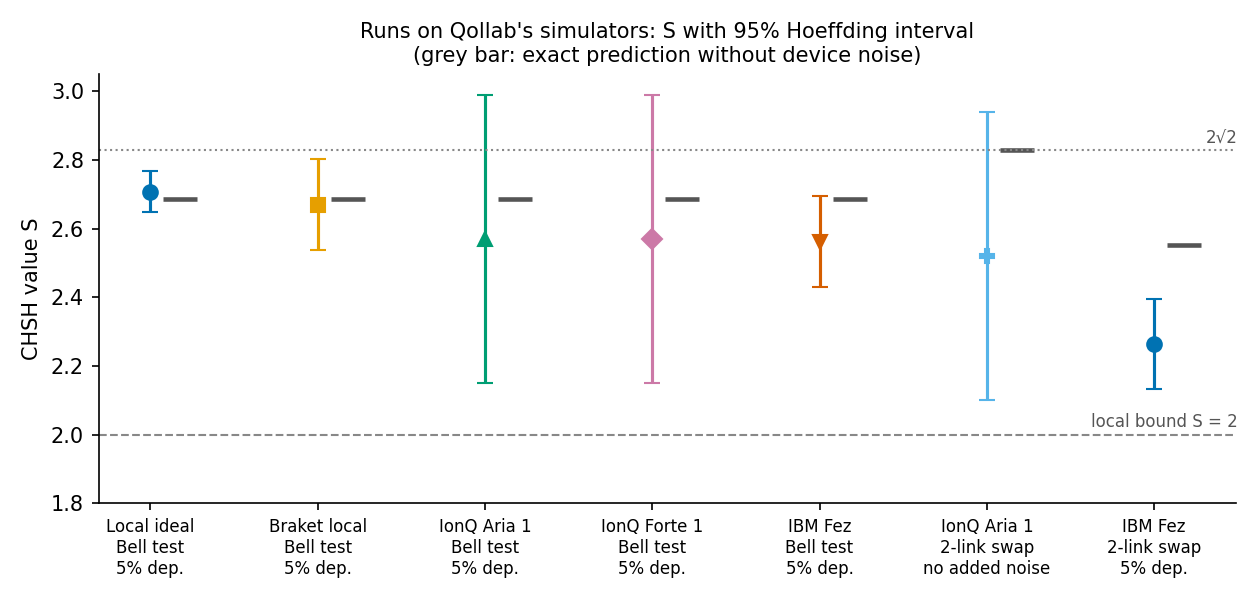
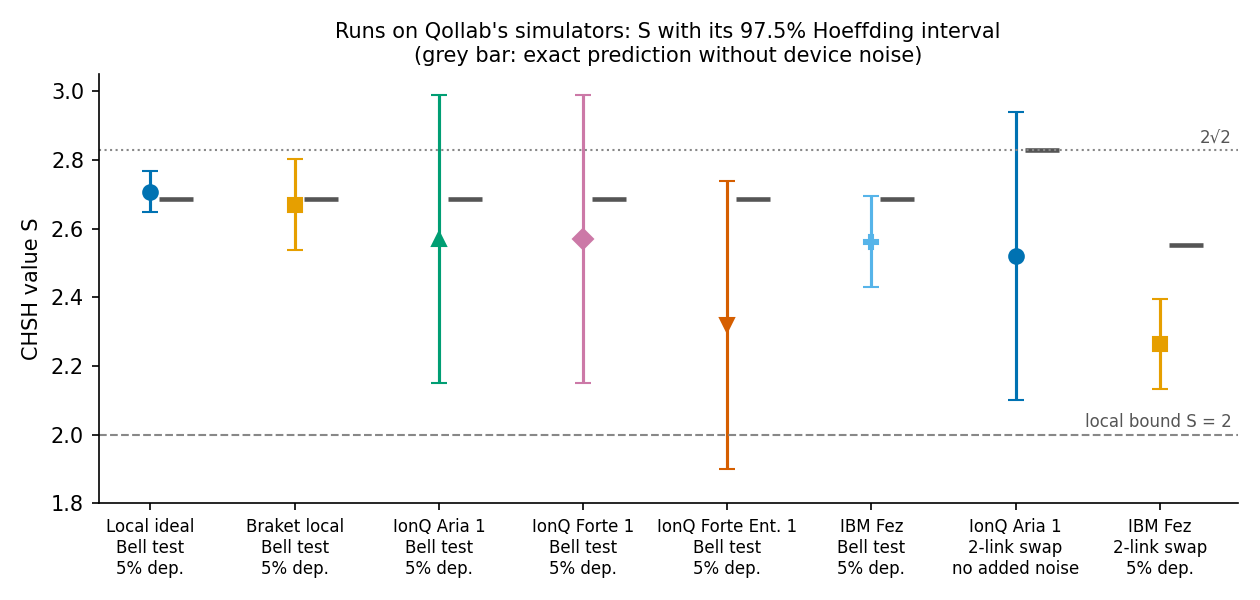
Add an IonQ Forte Enterprise 1 noise-model run; label S intervals as 97.5 %
Bell test, 5 % depolarizing, 200 shots, one packed 25-qubit job on Qollab: S = 2.320
[1.901, 2.739], Q_Z = 10.5 %, so the Bell violation holds only at the point estimate.
README results table, the finite-statistics paragraph and the verified-backends list are
updated; one 200-shot run per model cannot rank the models (S differs from Forte 1 by
about 1.6 combined standard errors). The S interval in the table and figure is the 97.5 %
Hoeffding interval used by the app, so every claim holds at 95 %.

diff --git a/scripts/make_figures.py b/scripts/make_figures.py
@@ -39,6 +39,7 @@ def short_name(label: str) -> str:
         ("BasicSimulator", "Local ideal"),
         ("Braket", "Braket local"),
         ("Aria 1", "IonQ Aria 1"),
+        ("Forte Enterprise 1", "IonQ Forte Ent. 1"),
         ("Forte 1", "IonQ Forte 1"),
         ("Fez", "IBM Fez"),
     ):
@@ -90,7 +91,7 @@ def backends_figure() -> None:
     ax.set_ylabel("CHSH value S")
     ax.set_ylim(1.8, 3.05)
     ax.set_title(
-        "Runs on Qollab's simulators: S with 95% Hoeffding interval\n"
+        "Runs on Qollab's simulators: S with its 97.5% Hoeffding interval\n"
         "(grey bar: exact prediction without device noise)",
         fontsize=10,
     )

diff --git a/README.md b/README.md
@@ -30,10 +30,10 @@ different amount of evidence:
 | DI key (Acín et al. 2007, collective attacks) | nothing; i.i.d. rounds | S > 2.424, QBER < 7.15 % |
 
 The lab makes this ladder visible. Every run shows each certificate twice: at the **point
-estimate**, and at the **conservative end** of a 95 % confidence interval (S at its lower end,
-error rates at their upper ends). With 10,000 shots per setting most claims survive; with the
-200 shots of an IonQ noise-model run, the device-independent key does not — finite statistics
-are part of the lesson, not a footnote.
+estimate**, and at the **conservative end** (S at the lower end of its interval, error rates at
+the upper ends of theirs; each interval is at 97.5 %, so every claim holds at 95 %). With 10,000
+shots per setting most claims survive; with the 200 shots of an IonQ noise-model run, the
+device-independent key does not — finite statistics are part of the lesson, not a footnote.
 
 ## What you can do
 
@@ -147,7 +147,7 @@ captured counts by `scripts/record_runs.py`, with the same code the app runs).
 
 ![S on each simulator, with intervals and the exact prediction](docs/img/backends.png)
 
-| Backend (Qollab) | Experiment | Shots / setting | S [95 % interval] | Exact prediction | Q_Z | DI key rate, point → conservative |
+| Backend (Qollab) | Experiment | Shots / setting | S [97.5 % interval] | Exact prediction | Q_Z | DI key rate, point → conservative |
 |---|---|---:|---|---:|---:|---|
 | Qiskit BasicSimulator (local reference run) | Bell, 5 % depolarizing | 10,000 | 2.708 [2.649, 2.767] | 2.687 | 2.36 % | 0.580 → 0.469 |
 | AWS Braket local (ideal) | Bell, 5 % depolarizing | 2,000 | 2.670 [2.538, 2.802] | 2.687 | 1.55 % | 0.566 → 0.343 |
@@ -155,6 +155,7 @@ captured counts by `scripts/record_runs.py`, with the same code the app runs).
 | IBM Fez noise model | Bell, no added noise | 2,000 | 2.670 [2.538, 2.802] | 2.828 | 2.90 % | 0.492 → 0.265 |
 | IonQ Aria 1 noise model | Bell, 5 % depolarizing | 200 | 2.570 [2.151, 2.989] | 2.687 | 4.00 % | 0.300 → none |
 | IonQ Forte 1 noise model | Bell, 5 % depolarizing | 200 | 2.570 [2.151, 2.989] | 2.687 | 4.50 % | 0.277 → none |
+| IonQ Forte Enterprise 1 noise model | Bell, 5 % depolarizing | 200 | 2.320 [1.901, 2.739] | 2.687 | 10.50 % | none |
 | IonQ Aria 1 noise model | 2-link swap, no added noise | 200 | 2.520 [2.101, 2.939] | 2.828 | 2.00 % | 0.339 → none |
 | IBM Fez noise model | 2-link swap, 5 % depolarizing | 2,000 | 2.264 [2.132, 2.396] | 2.553 | 9.25 % | none |
 | IBM Fez noise model | Bell, Eve at φ = 180° | 2,000 | 1.322 [1.190, 1.454] | 1.414 | 2.70 % | none (Q_X = 51.1 %) |
@@ -163,9 +164,12 @@ What the table shows:
 
 - **Device noise adds to the channel noise.** On the noise-model backends S falls below the
   channel-only prediction, more so for the swap, whose circuits have more two-qubit gates.
-- **Finite statistics decide the stronger claims.** With 200 shots per setting (IonQ), every
-  run keeps S above 2 at the conservative end, but the asymptotic DI-key bound turns negative
-  there: the interval on S is about ±0.42. With 2,000–10,000 shots the same bound stays
+- **Finite statistics decide the stronger claims.** With 200 shots per setting (IonQ) the
+  interval on S is about ±0.42. The Aria 1 and Forte 1 runs keep S above 2 at the conservative
+  end, but the asymptotic DI-key bound turns negative there; the Forte Enterprise 1 run shows a
+  Bell violation only at its point estimate (S = 2.320, lower end 1.901). One 200-shot run per
+  model cannot rank the models: its S differs from the Forte 1 run's by 0.25, about 1.6 combined
+  standard errors. With 2,000–10,000 shots the DI-key bound for the same experiment stays
   positive at the conservative end. (These are simulated counts; see Limits.)
 - **The eavesdropper is caught by the second basis**: the key basis looks clean (Q_Z ≈ 2.7 %,
   device noise only) while Q_X ≈ 51 % and S < 2.
@@ -207,7 +211,8 @@ its exact formula, so the lab reports the difference rather than claiming a repr
   recomputation; and static checks of the Qollab rules (no Sampler/Estimator, no dynamic
   circuits, literal data paths, upload limits, a single Python bridge in the browser code).
 - **On Qollab**: the full guided tour on the IBM Fez noise model; Bell runs on the built-in,
-  Braket, IBM Fez, IonQ Aria 1 and IonQ Forte 1 simulators; a two-link swap on IonQ Aria 1.
+  Braket, IBM Fez, IonQ Aria 1, IonQ Forte 1 and IonQ Forte Enterprise 1 simulators; a two-link
+  swap on IonQ Aria 1.
 - Problems found on Qollab and fixed: a module-level name clashing with the injected
   `backend`; the Braket backend's name (`default`) and its loss of circuit names; a 25-qubit
   packed circuit too slow for Braket's state-vector simulator (now one circuit per setting).
